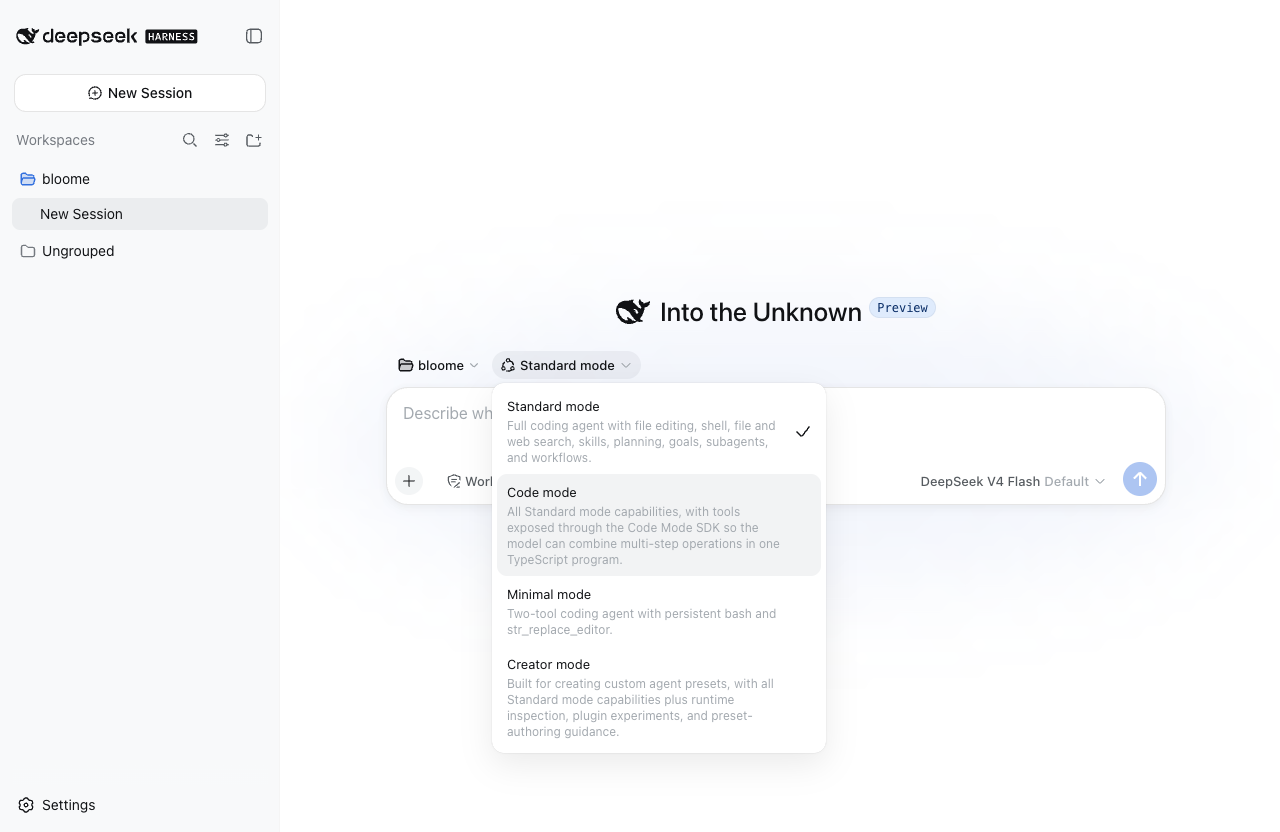
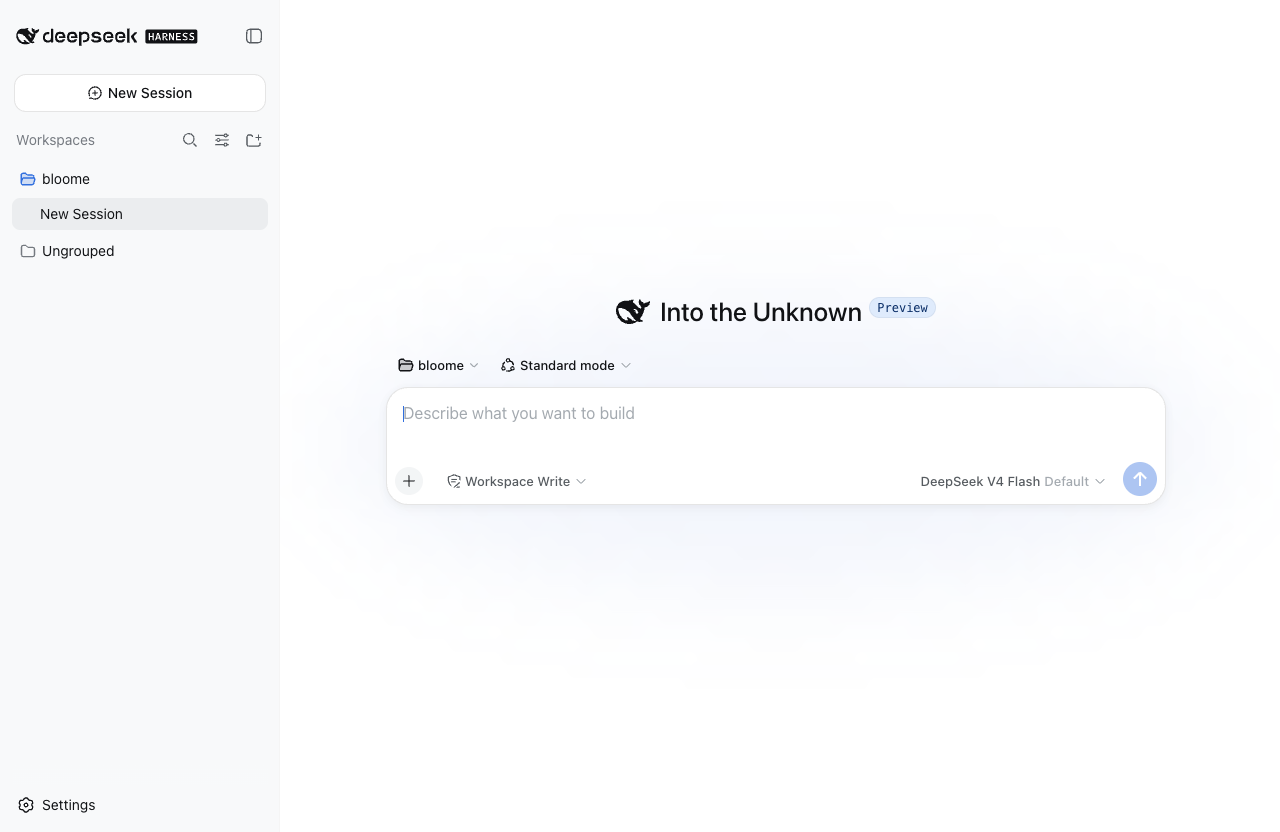
Add DOM diagnostics to --self-test; refresh docs screenshot
Self-test now prints document.title / body text length / root presence /
DOM size as authoritative proof that the original React UI rendered.

Changed region(s): [[0.375, 0.4688, 0.5938, 0.9062]]

diff --git a/src/main/index.js b/src/main/index.js
@@ -58,6 +58,10 @@ async function boot() {
           if (SCREENSHOT_PATH) {
             try {
               await new Promise((r) => setTimeout(r, 5000)) // let the SPA render
+              const domInfo = await mainWindow.webContents.executeJavaScript(
+                `JSON.stringify({ title: document.title, text: document.body?.innerText?.length ?? -1, root: !!document.getElementById('root'), html: document.documentElement.outerHTML.length })`,
+              )
+              console.log(`[self-test] dom: ${domInfo}`)
               const image = await mainWindow.webContents.capturePage()
               const { writeFileSync } = await import('node:fs')
               writeFileSync(SCREENSHOT_PATH, image.toPNG())
